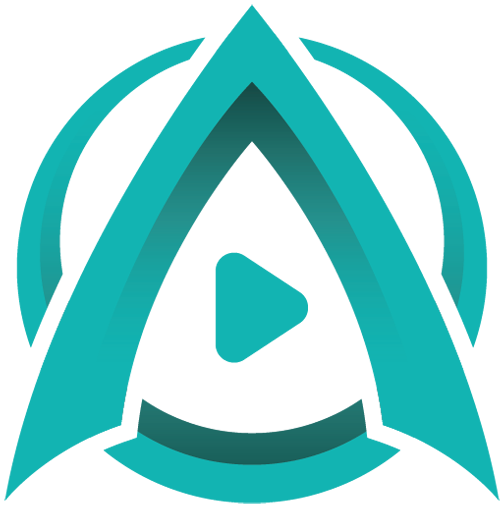
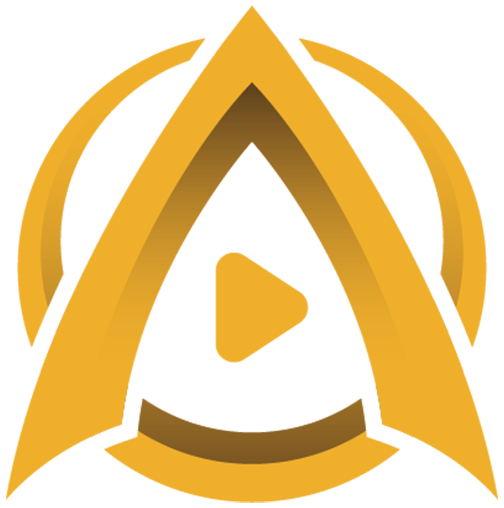
feat: change colors

diff --git a/Frontend/tailwind.config.js b/Frontend/tailwind.config.js
@@ -6,66 +6,21 @@ export default {
   },
   daisyui: {
     themes: [
-      "light",
-      "dark",
-      "cupcake",
-      "bumblebee",
-      "emerald",
-      "corporate",
-      "synthwave",
-      "retro",
-      "cyberpunk",
-      "valentine",
-      "halloween",
-      "garden",
-      "forest",
-      "aqua",
-      "lofi",
-      "pastel",
-      "fantasy",
-      "wireframe",
-      "black",
-      "luxury",
-      "dracula",
-      "cmyk",
-      "autumn",
-      "business",
-      "acid",
-      "lemonade",
-      "night",
-      "coffee",
-      "winter",
-      "dim",
-      "nord",
-      "sunset",
       {
         segra: {
-          primary: "#14B3B2",
-          secondary: "#25272E",
-          accent: "#EFAF2B",
-          neutral: "#31333E",
-          "base-100": "#31333E",
-          "base-200": "#DBDAE1",
-          "base-300": "#25272E",
-          "base-content": "#F2F3F7",
-          info: "#578DDD",
-          success: "#14B3B2",
-          warning: "#EFAF2B",
-          error: "#E85A5A",
-        },
-        rich: {
-          primary: "#116860", // Deep teal green
-          secondary: "#0b423d", // Dark forest green
-          accent: "#E85A5A", // Vibrant coral red
-          neutral: "#09413c", // Dark greenish teal
-          "base-100": "#132625", // Very dark, muted green
-          "base-200": "#DBDAE1", // Soft lavender-gray
-          "base-300": "#0c1919", // Near-black with green undertones
-          "base-content": "#F2F3F7", // Very light grayish white
-          info: "#578DDD", // Medium sky blue
-          success: "#14B3B2", // Bright aqua turquoise
-          warning: "#EFAF2B", // Rich mustard yellow
-          error: "#E85A5A", // Bold coral red
+          "primary": "#fecb00",    // Sweden Yellow - Primary brand color
+          "secondary": "#171f2a",  // Dawn Blue - Secondary accent
+          "accent": "#fecb00",     // Sweden Blue - Accent color
+          "neutral": "#142638",    // Dark Dawn Blue - Neutral dark shade
+          "base-100": "#132733",   // Dark Dawn Blue - Main background
+          "base-200": "#15232F",   // Darker shade - Secondary background
+          "base-300": "#171f2a",   // Darker shade - Tertiary background
+          "base-400": "#49515b",    // Winter Grey - Neutral light shade
+          "base-content": "#ffffff", // White - Text color
+          "info": "#005293",       // Sweden Blue - Informational color
+          "success": "#36D399",    // Green - Success state
+          "warning": "#ffd481",    // Pale Yellow - Warning state
+          "error": "#F87272",      // Red - Error state
         },
       },
     ],

diff --git a/Frontend/src/Components/VideoCard.tsx b/Frontend/src/Components/VideoCard.tsx
@@ -101,7 +101,7 @@ export default function ContentCard({content, type, onClick, isLoading}: VideoCa
 
 	return (
 		<div
-			className="card card-compact bg-base-300 text-gray-300 shadow-xl w-full border border-neutral border-opacity-75 cursor-pointer"
+			className="card card-compact bg-base-300 text-gray-300 w-full cursor-pointer border border-[#49515b]"
 			onClick={() => onClick?.(content!)}
 		>
 			<figure className="relative aspect-ratio[16/9]">
@@ -146,7 +146,7 @@ export default function ContentCard({content, type, onClick, isLoading}: VideoCa
 						)}
 						<li>
 							<a
-								className="flex w-full items-center gap-2 px-4 py-3 text-white hover:bg-base-200/10 active:bg-base-200/20 rounded-lg transition-all duration-200 hover:pl-5 outline-none"
+								className="flex w-full items-center gap-2 px-4 py-3 text-white hover:bg-white/5 active:bg-base-200/20 rounded-lg transition-all duration-200 hover:pl-5 outline-none"
 								onClick={() => {
 									// I don't know why it doesn't hide by itself?
 									(document.activeElement as HTMLElement).blur();

diff --git a/Frontend/src/Components/SelectionCard.tsx b/Frontend/src/Components/SelectionCard.tsx
@@ -41,7 +41,7 @@ const SelectionCard: React.FC<SelectionCardProps> = ({
     return (
         <div
             ref={dragDropRef}
-            className={`mb-2 cursor-move w-full relative rounded-xl transition-all duration-200 outline outline-2 ${isHovered ? "outline-accent" : "outline-base-300"}`}
+            className={`mb-2 cursor-move w-full relative rounded-xl transition-all duration-200 outline outline-2 ${isHovered ? "outline-accent" : "outline-[#49515b]"}`}
             style={{ opacity: isDragging ? 0.3 : 1 }}
             onMouseEnter={() => setHoveredSelectionId(selection.id)}
             onMouseLeave={() => setHoveredSelectionId(null)}